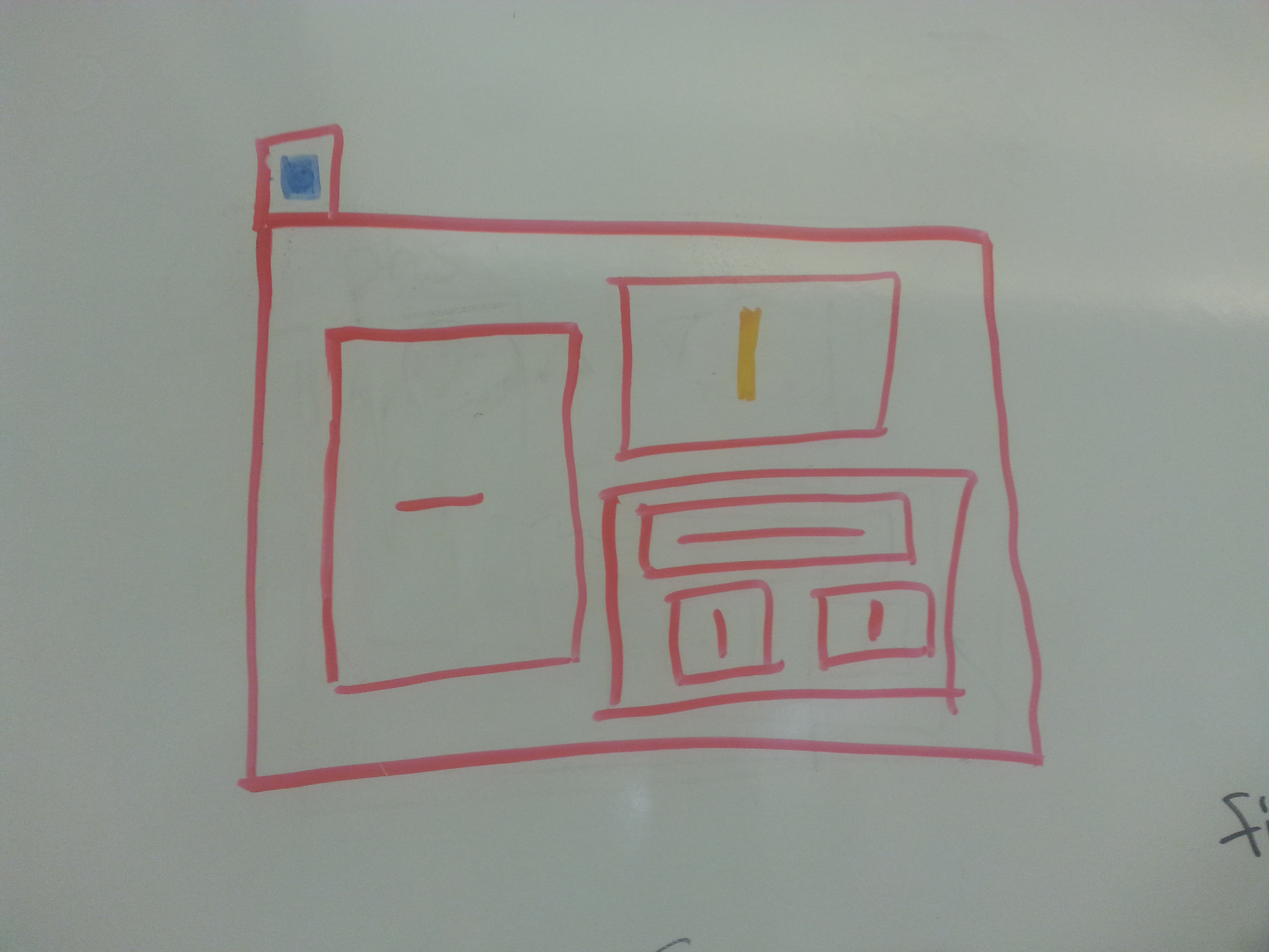
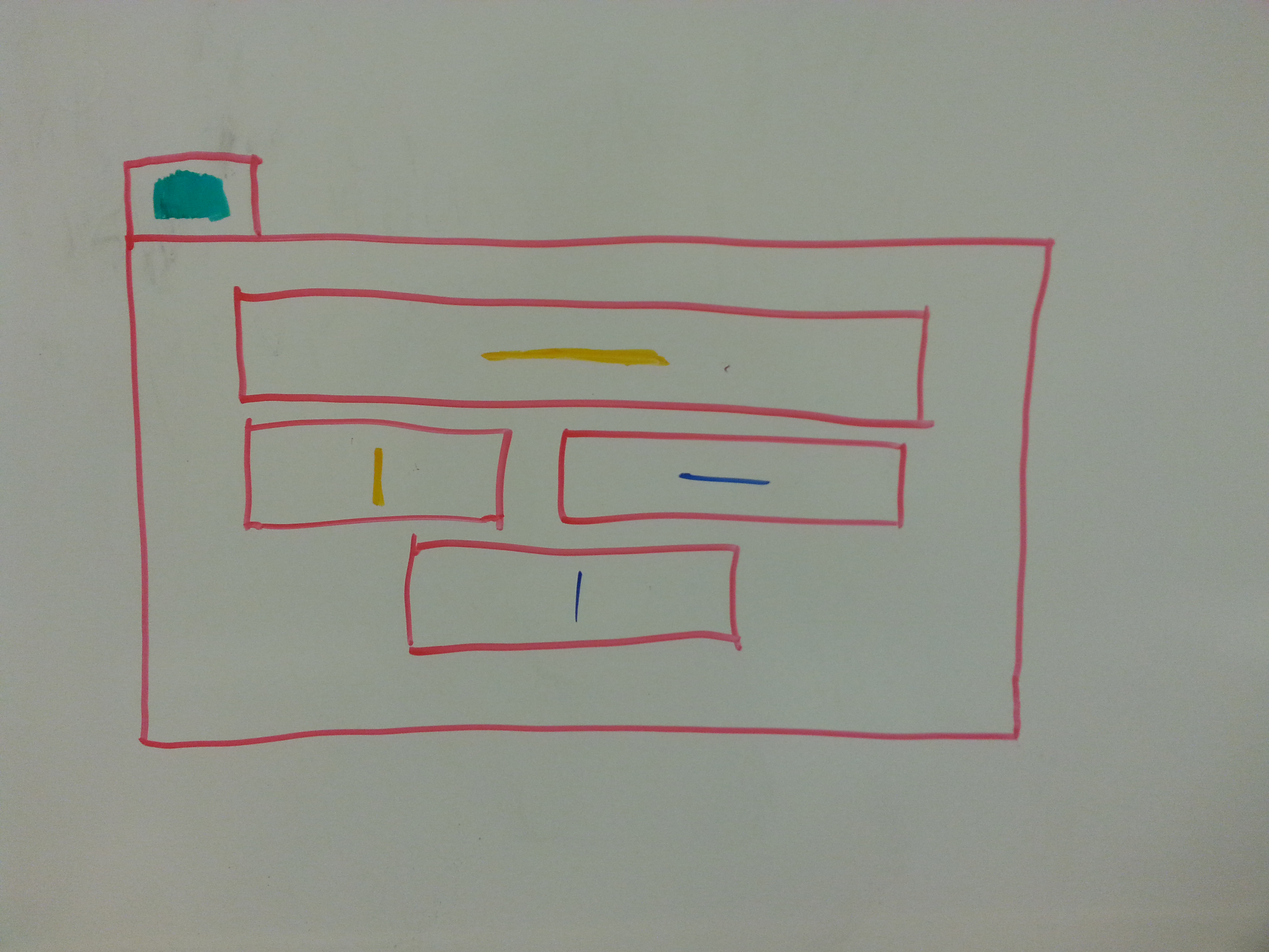
Better images and now featuring green!

diff --git a/python/thresh.py b/python/thresh.py
@@ -11,8 +11,10 @@ redLowThresh = 151
 redHighThresh = 8
 yelLowThresh  = 15
 yelHighThresh = 30
-bluLowThresh  = 90
-bluHighThresh = 155
+bluLowThresh  = 105
+bluHighThresh = 120
+grnLowThresh  = 75
+grnHighThresh = 95
 
 openSteps = 0
 closeSteps = 7
@@ -177,6 +179,9 @@ def buildHierarchy(orig,pair):
         yelProcess = [gaussian,hsv,
                       thresh('redSThresh','yelLowThresh','yelHighThresh'),
                       holeOpen,holeClose,extractContours,polyApprox]
+        grnProcess = [gaussian,hsv,
+                      thresh('redSThresh','grnLowThresh','grnHighThresh'),
+                      holeOpen,holeClose,extractContours,polyApprox]
         x = rect['x']
         y = rect['y']
         w = rect['width']
@@ -186,15 +191,15 @@ def buildHierarchy(orig,pair):
         # cv2.imshow("img",img.copy())
         # print (img.shape)
 
-        pipes = [bluProcess,yelProcess]
+        pipes = [bluProcess,yelProcess,grnProcess]
         for i in range(len(pipes)):
             conts = pipeline(pipes[i])(img)
-            which = ["blu","yel"][i]
+            which = ["blu","yel","grn"][i]
             # cv2.imshow(which,conts[0])
             print ("Trying " + which)
-            print (conts)
             conts = conts[1][0]
-            if conts != None and len(conts) != 0:
+            if conts != None and len(conts) != 0 \
+               and conts[0].shape[0] in [2,4]:
                 print (conts)
                 return (i,readContentType(conts[0]))
         return (None,'')
@@ -252,9 +257,9 @@ def drawHierarchy(orig,pair):
 
     orig = orig.copy()
 
-    colors = [(0,255,0),(0,0,255),(255,0,255),(255,255,0)]
+    colors = [(0,0,255),(255,0,255),(255,255,0),(0,0,0)]
 
-    glyphs = [(255,0,0),(0,255,255)]
+    glyphs = [(255,0,0),(0,255,255),(0,255,0)]
 
     def draw(rects,i = 0):
         children = []

diff --git a/python/imstream.py b/python/imstream.py
@@ -1,5 +1,6 @@
 import cv2
 import time
+import gc
 
 def runStream(process = lambda x: x,
               fps = 30,
@@ -32,6 +33,7 @@ def runStream(process = lambda x: x,
         #     print "Too Fast! %f < %f" %(spf,timeSoFar)
         if printTime:
             print 'time: ' + str(time.time()-loopStart)
+        gc.collect()
         key = cv2.waitKey(max(1,int(1000*(spf-timeSoFar))))
 
 if __name__ == '__main__':
